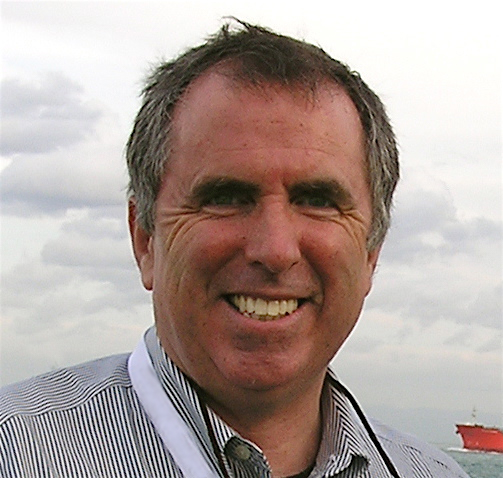
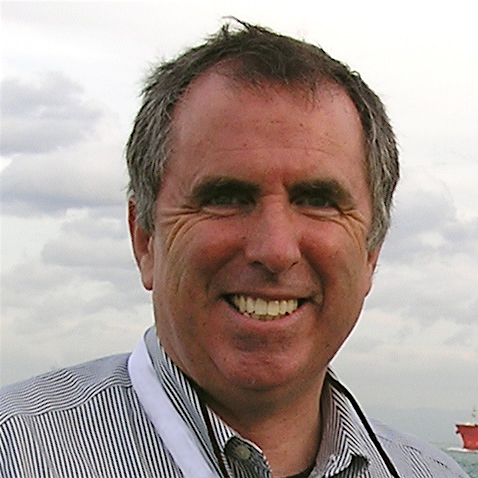
update team page, add mobile support, add hamburger menu

Changed region(s): [[0.0, 0.0293, 1.0, 1.0], [0.9079, 0.41, 0.9372, 0.4686], [0.8787, 0.4686, 0.9079, 0.4979]]

diff --git a/_includes/navigation.html b/_includes/navigation.html
@@ -3,9 +3,9 @@
   const toggleMenu = () => {
     const menuElement = document.getElementById("hamburger-menu");
     if (shown) {
-        menuElement.style.left = "-250px";
+        menuElement.style.right = "-250px";
     } else {
-        menuElement.style.left = "0";
+        menuElement.style.right = "0";
     }
     shown = !shown;
   }
@@ -20,8 +20,17 @@
       </div>
       {% endfor %}
     </div>
+    <button onclick="toggleMenu()" class="no-border-button navbar-hamburger">
+      <img src="{{ '/assets/img/mini/hamburger.svg' | relative_url }}" alt="Hamburger Menu" class="hamburger-image">
+    </button>
+    <div class="navbar-hamburger-menu" id="hamburger-menu">
+      <div class="navbar-links hamburger-links">
+        {% for item in site.data.navigation %}
+        <div class="navbar-item{% if page.url contains item.link or page.url == "/" and item.link == "/index.html"%} active{% endif %}">
+          <a class="navbar-link" href="{{ item.link }}">{{item.name}}</a>
+        </div>
+        {% endfor %}
+      </div>
+    </div>
   </div>
-  <!-- <button onclick="toggleMenu()" class="no-border-button">
-    <img src="{{ '/assets/img/mini/hamburger.svg' | relative_url }}" alt="Hamburger Menu" class="hamburger">
-  </button> -->
 </nav>

diff --git a/assets/css/nav.css b/assets/css/nav.css
@@ -52,3 +52,50 @@
   height: 50px;
   padding-right: 15px;
 }
+
+.navbar .navbar-hamburger {
+  display: none;
+  height: 50px;
+  padding: 0;
+}
+
+.navbar .navbar-hamburger-menu {
+  display: none;
+}
+
+.navbar .navbar-hamburger-menu {
+  position: fixed;
+  top: 70px;
+  transition: right 0.3s ease;
+  right: -250px;
+  width: 240px;
+  background-image: linear-gradient(to right, var(--navbar-color), var(--logo-o-color));
+  z-index: 2;
+  border-radius: 0 0 0 30px;
+  box-shadow: 0 4px 8px 0 rgba(0, 0, 0, 0.2), 0 6px 20px 0 rgba(0, 0, 0, 0.19);
+}
+
+.navbar .navbar-hamburger .hamburger-image {
+  height: 40px;
+  margin: 5px;
+  filter: brightness(0) saturate(100%) invert(85%) sepia(3%) saturate(2157%) hue-rotate(210deg) brightness(110%) contrast(96%);
+}
+
+.navbar .navbar-hamburger-menu .navbar-links {
+  flex-direction: column;
+  font-size: 30px
+}
+
+@media screen and (max-width: 650px) {
+  .navbar .navbar-hamburger {
+    display: unset;
+  }
+
+  .navbar .navbar-hamburger-menu {
+    display: unset;
+  }
+
+  .navbar .navbar-links:not(.hamburger-links) {
+    display: none;
+  }
+}

diff --git a/team.html b/team.html
@@ -3,7 +3,6 @@ layout: default
 title: "Team"
 ---
 
-
 <script>
   const showPopup = (num) => {
     const popup = document.getElementById(`popup-id-${num}`);
@@ -34,7 +33,7 @@ title: "Team"
           <img src="assets/img/team/{{item.img}}" class="team-member-img" alt="{{item.name}}, {{item.title}}">
         </div>
         <div class="team-member-info">
-          <h3>{{item.name}}, {{item.education}}</h3>
+          <h3>{{item.name}}<br>{{item.education}}</h3>
           <i>
             <p>{{item.title}}</p>
           </i>
@@ -46,7 +45,7 @@ title: "Team"
         <div class="team-member-popup-container">
           <div class="team-popup-header">
             <div class="team-member-info">
-              <h3>{{item.name}}</h3>
+              <h3>{{item.name}}, {{item.education}}</h3>
               <h4>{{item.title}}</h4>
             </div>
             <button onclick=hidePopup({{forloop.index0}}) class="no-border-button close-button">

diff --git a/resources.html b/resources.html
@@ -33,10 +33,4 @@ title: "Resources"
     </div>
   </div>
   {% include divider.html %}
-  <div class="presentation">
-    <p>To learn more about our team's research, watch this video of our recent presentation hosted by RI BIO:</p>
-    <div class="video-container">
-      <iframe src="https://www.youtube.com/embed/Jv0v2zcgCVQ" frameborder="0" allowfullscreen class="youtube-video"></iframe>
-    </div>
-  </div>
 </div>

diff --git a/assets/css/team.css b/assets/css/team.css
@@ -41,7 +41,10 @@
 .team .team-member-info h3 {
   margin: 0;
   max-width: var(--team-image-width);
+}
 
+.team .team-member-popup .team-member-info h3 {
+  max-width: unset;
 }
 
 .team .team-member-info i p {
@@ -86,6 +89,7 @@
 
 .team .team-hover {
   transition: transform 0.2s ease, box-shadow 0.2s ease;
+  height: 80%;
 }
 
 .team .team-hover:hover {
